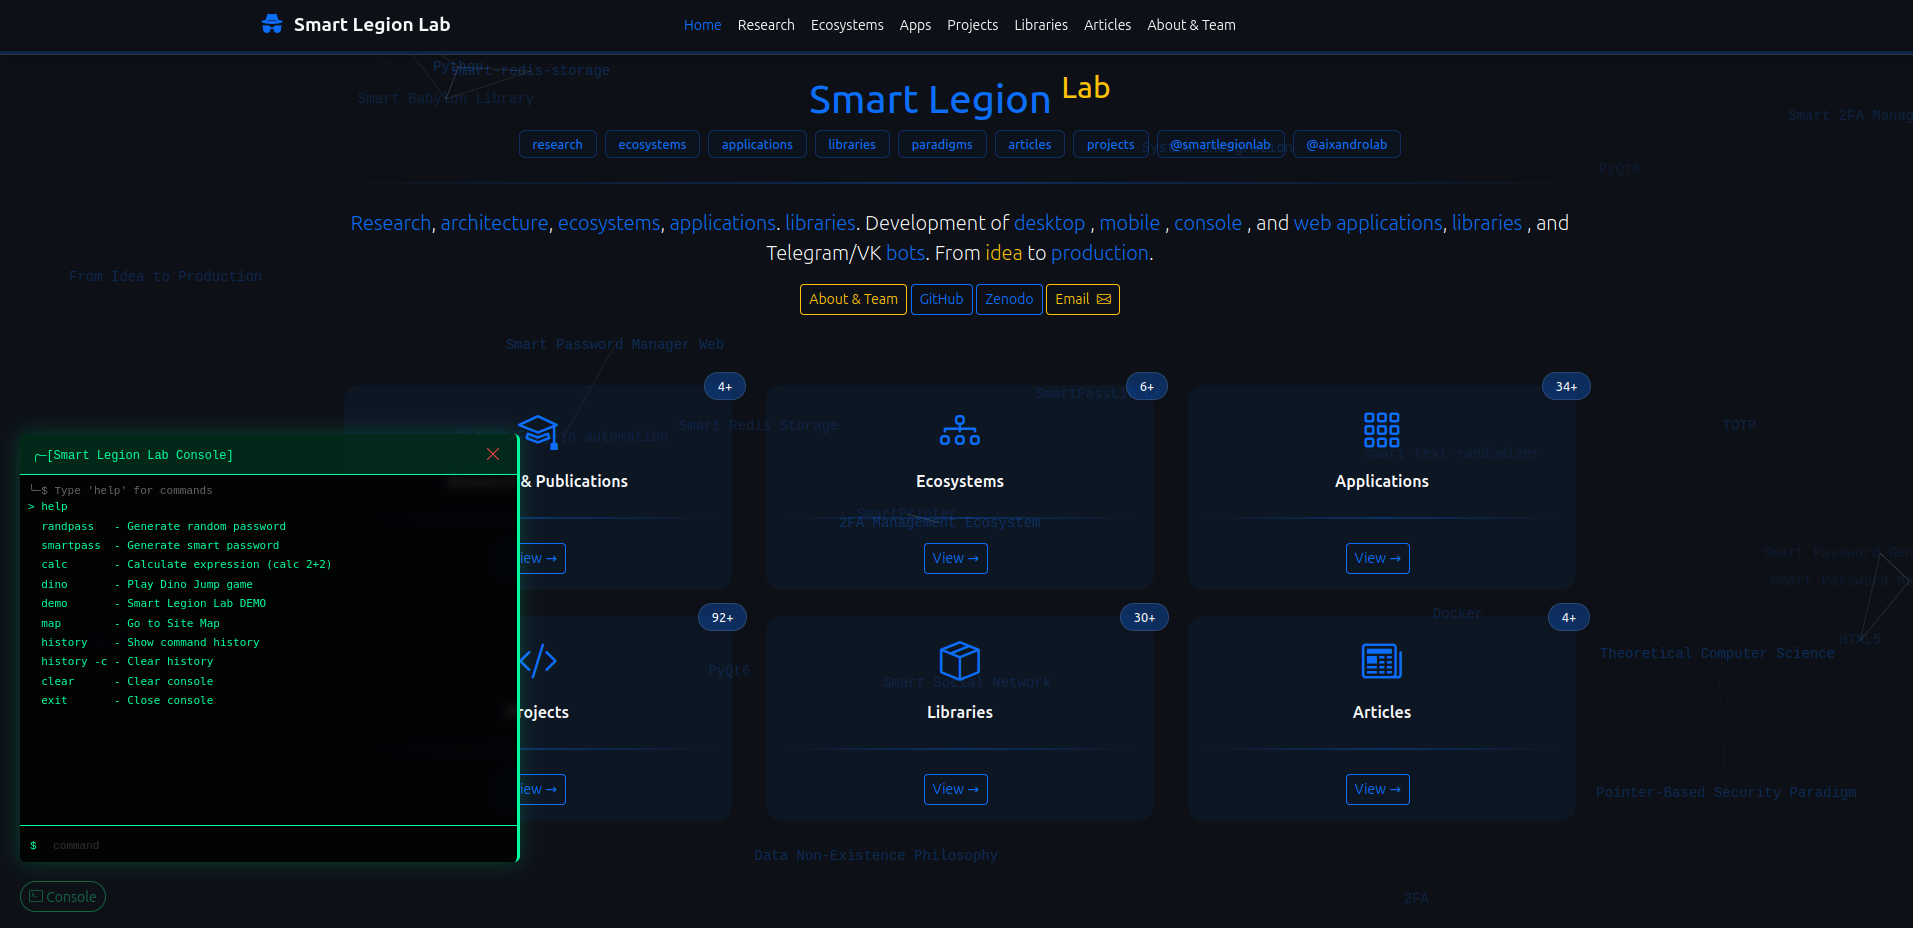
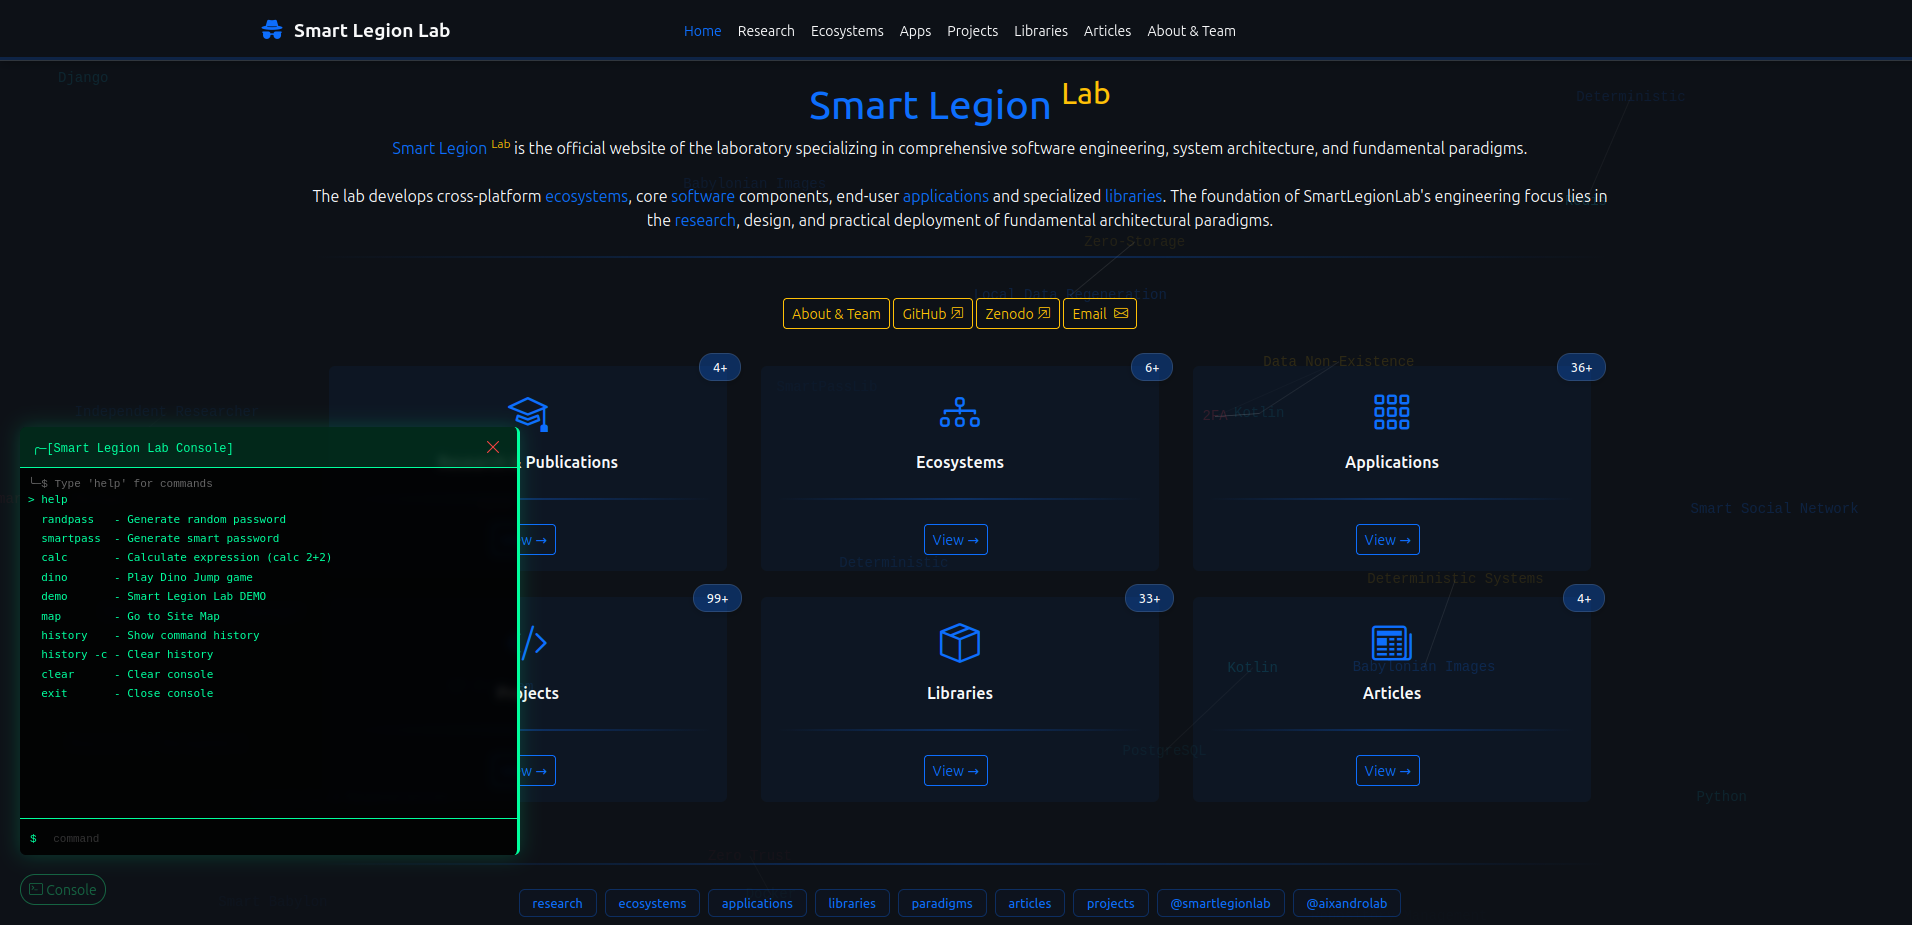
docs: document adaptive background system

diff --git a/README.md b/README.md
@@ -6,7 +6,7 @@
 [![GitHub stars](https://img.shields.io/github/stars/smartlegionlab/smartlegionlab.github.io?style=social)](https://github.com/smartlegionlab/smartlegionlab.github.io/stargazers)
 [![GitHub forks](https://img.shields.io/github/forks/smartlegionlab/smartlegionlab.github.io?style=social)](https://github.com/smartlegionlab/smartlegionlab.github.io/network/members)
 
-**The official website of Smart Legion Lab** - a comprehensive digital platform showcasing our work in **software architecture**, **open-source development**, **cross-platform ecosystems**, and **theoretical computer science research**.
+**The official website of Smart Legion Lab** — a comprehensive digital platform showcasing our work in **software architecture**, **open-source development**, **cross-platform ecosystems**, and **theoretical computer science research**.
 
 ![Main Page](https://github.com/smartlegionlab/smartlegionlab.github.io/blob/master/data/images/logo.png)
 
@@ -182,6 +182,70 @@ An immersive 3D visualization of the entire website, accessible via the **"Site 
 
 ---
 
+### Adaptive Background System
+
+The site ships an adaptive background engine that selects the right
+visual for the right context — desktop, mobile, or specific pages —
+without loading unnecessary scripts.
+
+**How it works:**
+- `js/background-dispatcher.js` is the single entry point.
+- It inspects the page context (device type, viewport, pathname)
+  and loads exactly one of the available engines.
+- Only the required engine is fetched at runtime; the others are
+  never downloaded on that device.
+- Adding a new engine means adding a rule to the dispatcher's `RULES`
+  array, no changes to the dispatcher logic itself.
+
+**Rules (priority order, first match wins):**
+
+| Context                                      | Engine                           | File                        |
+|----------------------------------------------|----------------------------------|-----------------------------|
+| Mobile device (UA / touch / narrow viewport) | TSP traveling-salesman animation | `js/tsp-background.js`      |
+| Path matching `/projects/i`                  | Self-typing console session log  | `js/console-background.js`  |
+| Everything else (desktop)                    | Floating tech words on canvas    | `js/particle-background.js` |
+
+**Engines:**
+
+- **TSP Background** — white dots drift slowly, a greedy route is
+  built periodically (nearest neighbor) and animated with a glowing
+  traveler leaving a fading trail. Cheaper than the particle engine:
+  no `fillText`, no O(n²) per frame. Route is built once per cycle.
+- **Console Background** — self-typing coherent session log with five
+  scenarios (research, smartpasslib, TSP, 2FA, infrastructure),
+  randomly picked per session. Uses only DOM + CSS. Loads on mobile
+  and on the projects page.
+- **Particle Background** — floating tech words on canvas with color
+  coding (paradigms yellow, security red, languages cyan), edge fade,
+  breathing opacity, and soft repulsion. Loads on desktop pages that
+  are not projects.
+
+**Shared behaviour across all engines:**
+
+- Activated only when `<div id="background-trigger" hidden></div>`
+  is present on the page.
+- `prefers-reduced-motion` is respected — animation stops completely.
+- `visibilitychange` pauses the animation when the tab is hidden.
+- Mobile scroll and address bar resize do not cause jitter.
+- `orientationchange` is handled with a short delay so the engines
+  recompute layout after the browser updates `innerWidth`/`innerHeight`.
+
+**Adding a new engine:**
+
+1. Create `js/your-background.js` as a self-contained module.
+2. Add a rule to `RULES` in `js/background-dispatcher.js`:
+
+```javascript
+{
+    test: function (ctx) { return ctx.matchesPath(/your-section/i); },
+    engine: 'your-background.js'
+}
+```
+
+3. That's it — no other changes needed.
+
+---
+
 ## License
 
 This project is licensed under the **BSD 3-Clause License**. See the [LICENSE](LICENSE) file for details.
@@ -206,3 +270,4 @@ This project is licensed under the **BSD 3-Clause License**. See the [LICENSE](L
   <br>
   <sub>© 2026 Smart Legion Lab. All rights reserved.</sub>
 </div>
+
